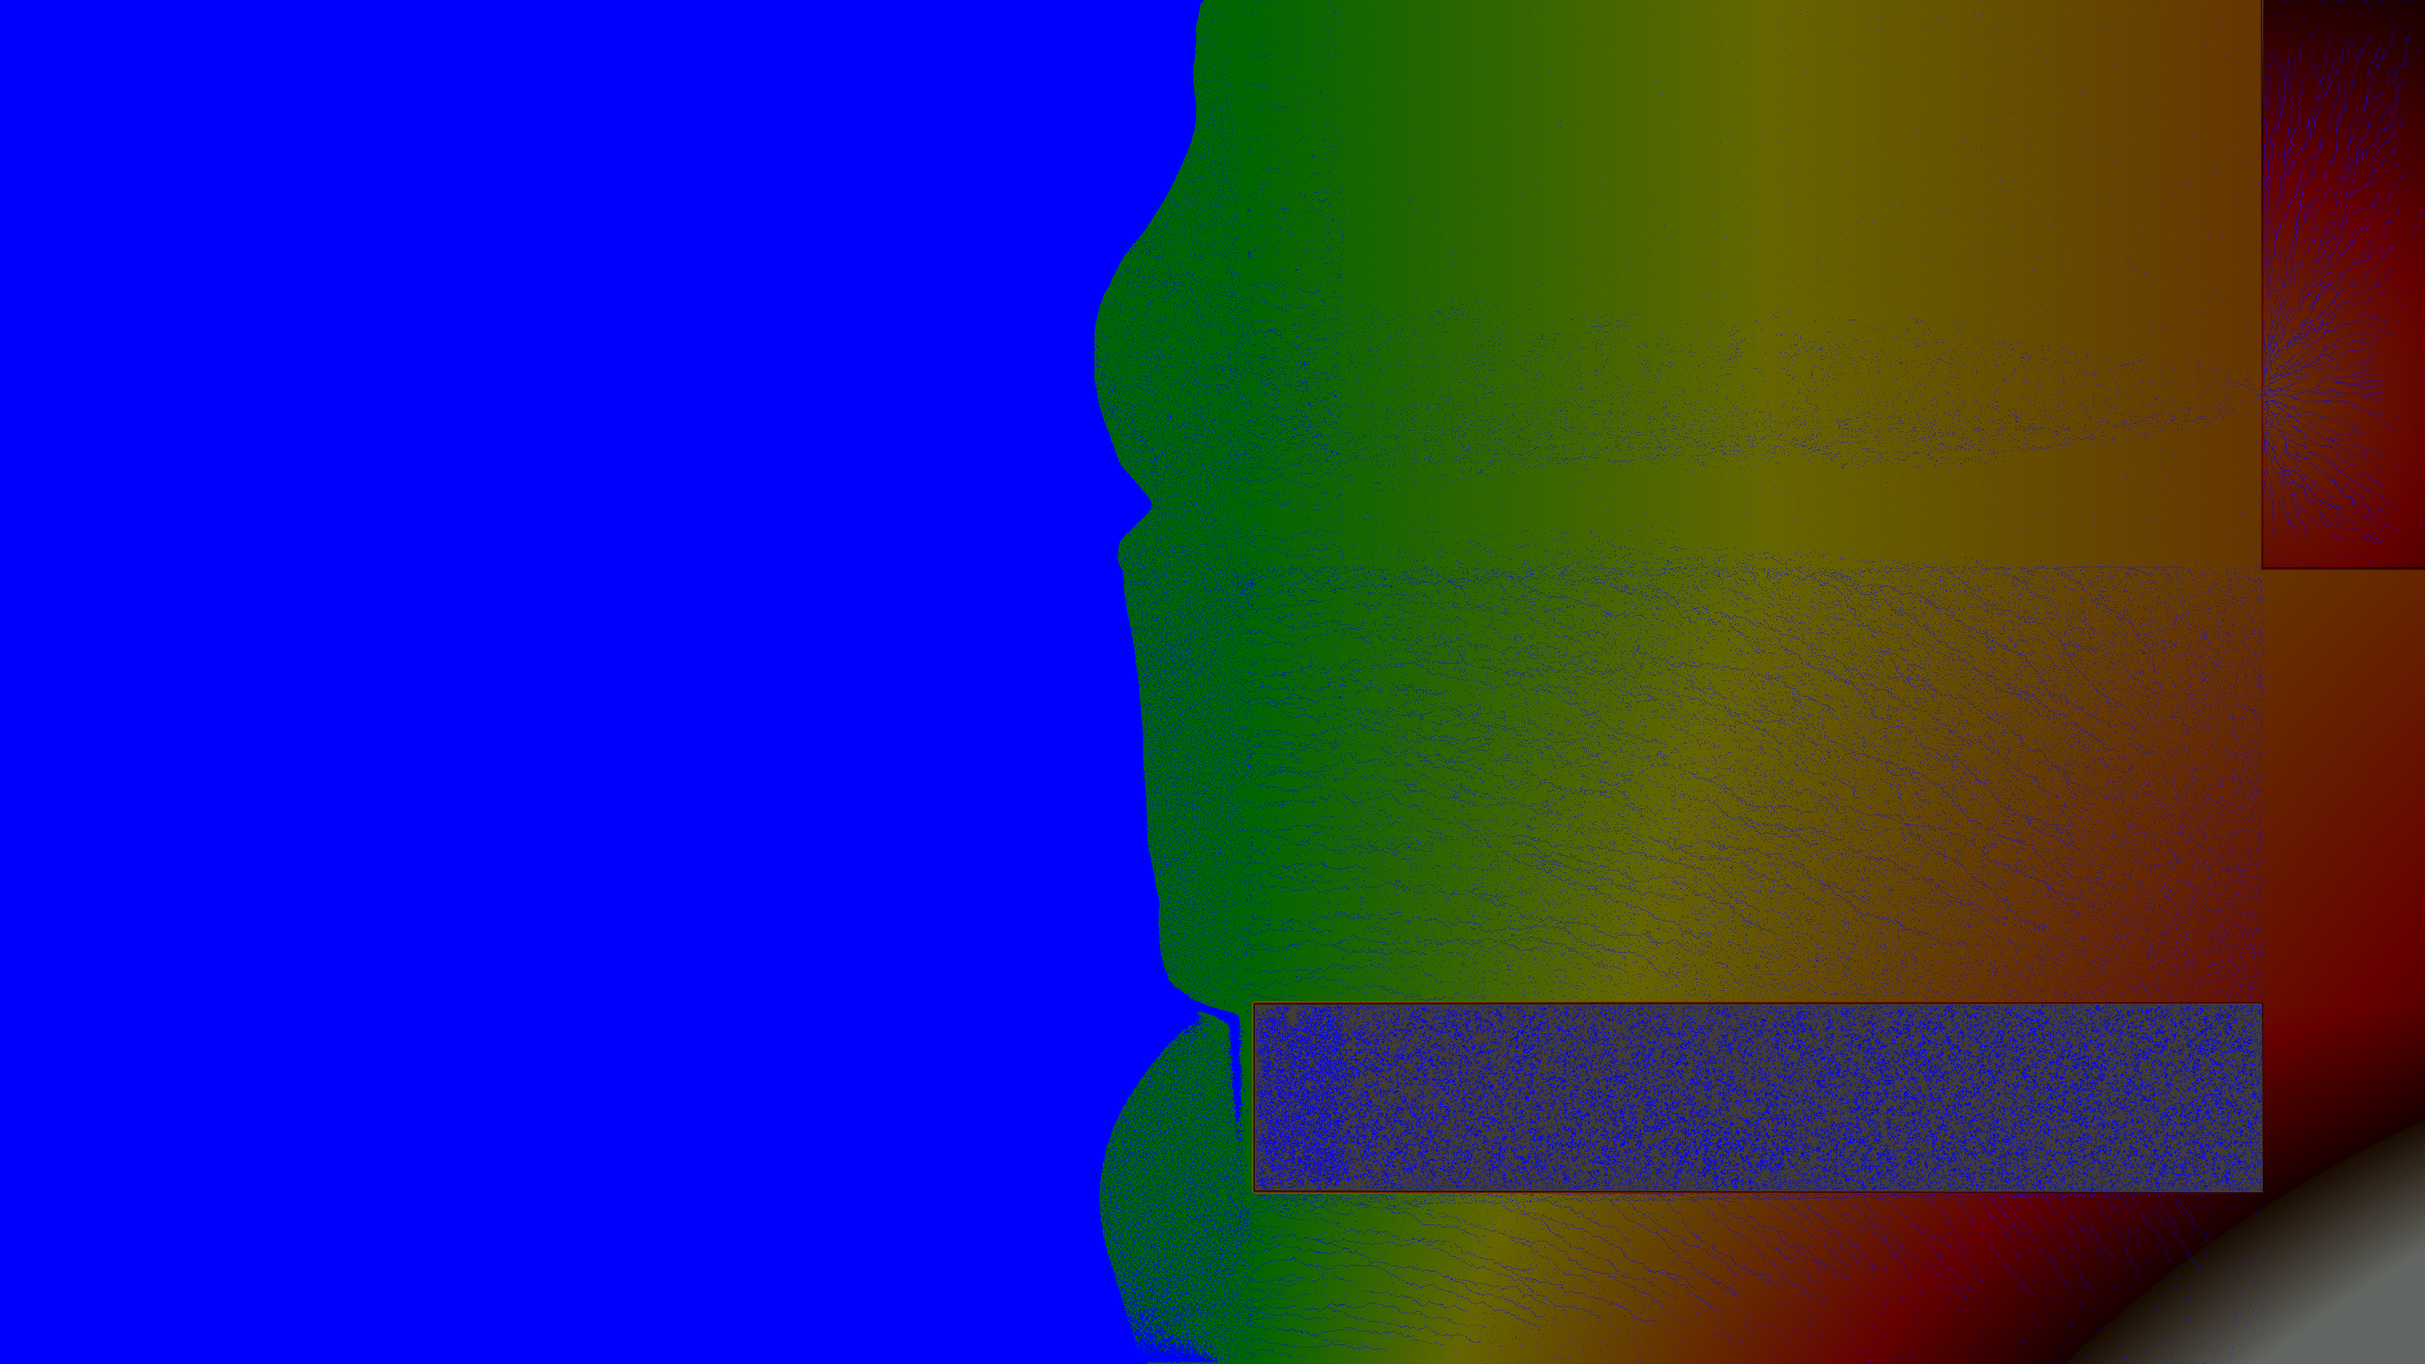
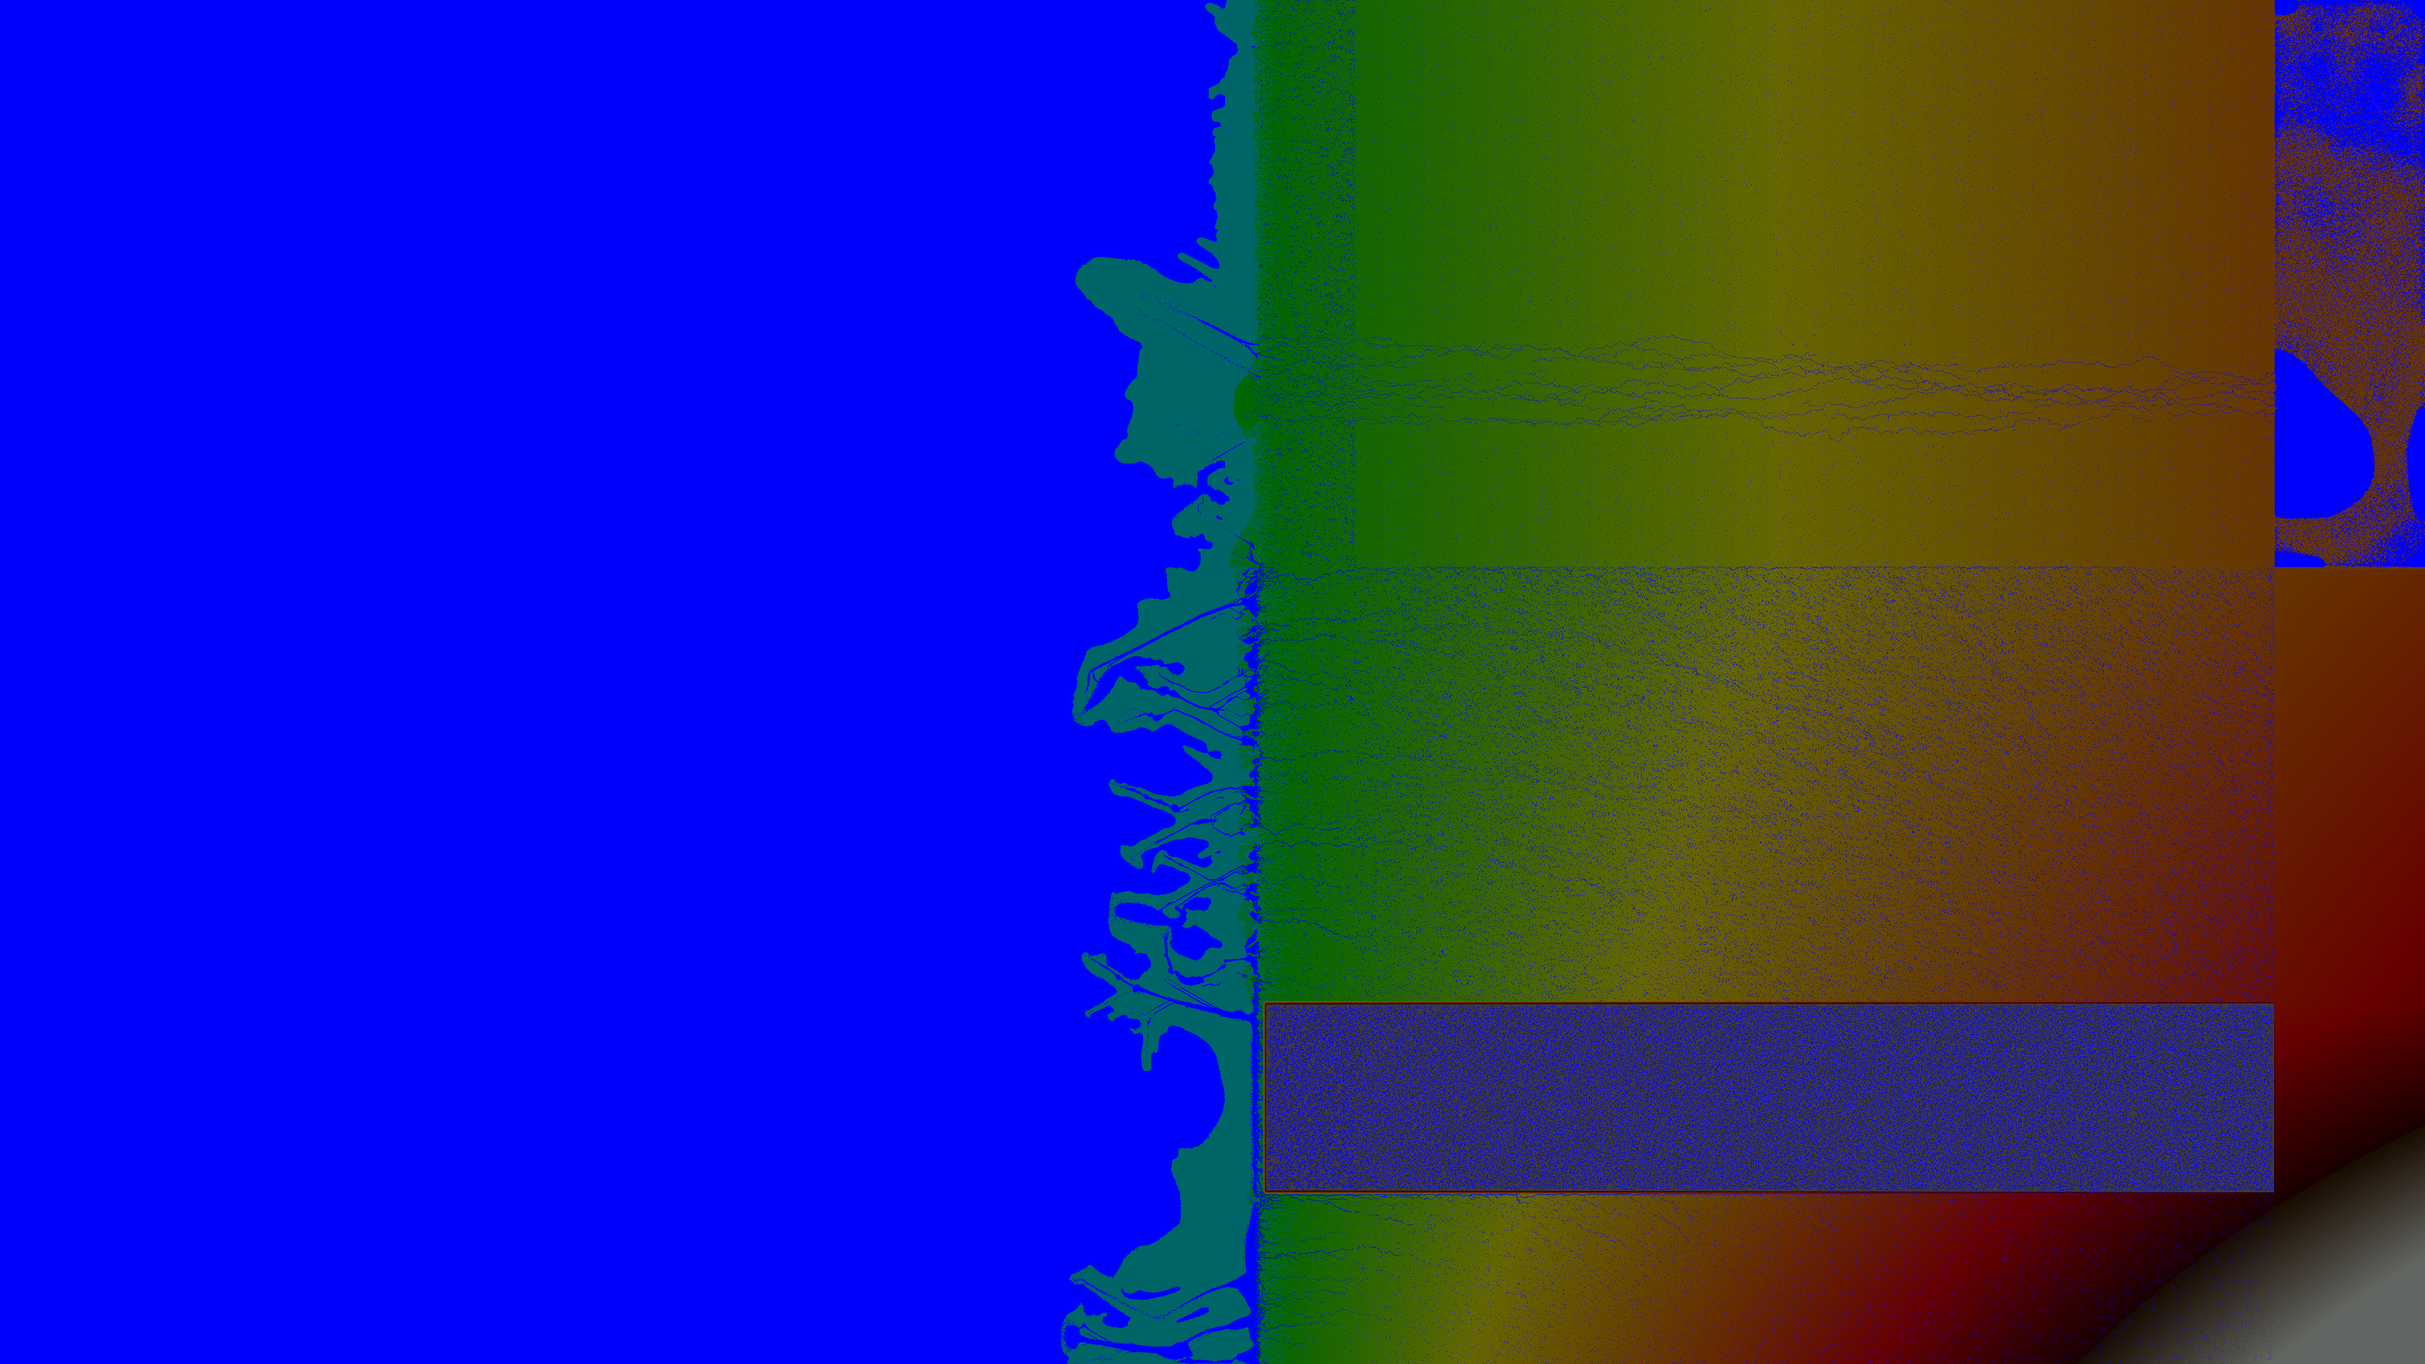
Miscellaneous experimentation. Still working on finding right constants.

diff --git a/src/main.rs b/src/main.rs
@@ -147,9 +147,8 @@ fn hex_distance_pythagorean(x1: i32, y1: i32, x2: i32, y2: i32) -> i32 {
 }
 
 fn elevation_to_color(elevation: f32) -> Rgb<u8> {
-    let adjusted_sea_level = SEA_LEVEL - WATER_THRESHOLD;
-    if elevation < adjusted_sea_level {
-        let normalized_elevation = ((elevation + ABYSSAL_PLAINS_DEPTH) / (adjusted_sea_level + ABYSSAL_PLAINS_DEPTH)).min(1.0);
+    if elevation < SEA_LEVEL {
+        let normalized_elevation = ((elevation + ABYSSAL_PLAINS_DEPTH) / (ABYSSAL_PLAINS_DEPTH)).min(1.0);
         if normalized_elevation < 0.0 {
             // Black, to mark where errosion has lowered elevation below the lowest possible initial elevation.
             Rgb([0, 0, 0])
@@ -162,9 +161,9 @@ fn elevation_to_color(elevation: f32) -> Rgb<u8> {
         }
     } else {
         // Land: green -> yellow -> orange -> red -> brown -> white
-        let land_height = elevation - adjusted_sea_level;
+        let land_height = elevation;
         // TODO: I expect the 256.0 / 255.0 is compensating for a math error somewhere else.
-        let max_land_height = (MAX_ELEVATION - adjusted_sea_level) * 256.0 / 255.0;
+        let max_land_height = MAX_ELEVATION * 256.0 / 255.0;
         let normalized_height = (land_height / max_land_height).min(1.0);
         
         if normalized_height < 0.2 {
@@ -308,9 +307,8 @@ fn simulate_rainfall(
         SEA_LEVEL, NORTH_DESERT_HEIGHT, CENTRAL_HIGHLAND_HEIGHT, SOUTH_MOUNTAINS_HEIGHT, CONTINENTAL_SLOPE_INCREMENT
     );
     println!(
-        "  RAINFALL_FACTOR {}  AVERAGE_RAIN {}  EVAPORATION_FACTOR {}",
+        "  RAINFALL_FACTOR {}  EVAPORATION_FACTOR {}",
         RAINFALL_FACTOR,
-        AVERAGE_RAIN,
         EVAPORATION_FACTOR
     );
     println!(
@@ -321,12 +319,11 @@ fn simulate_rainfall(
 
     for _step in 0..steps {
         // Mass balance stats per step
-        let rainfall_added = (width * height) as f32 * BASE_RAINFALL;
         let mut step_outflow = 0.0f32;
         let mut step_sediment_in = 0.0f32;
         let mut step_sediment_out = 0.0f32;
 
-        if _step % (WIDTH_HEXAGONS as u32 * LOG_ROUNDS) == 0 {
+        if _step % ((WIDTH_HEXAGONS / 4) as u32 * LOG_ROUNDS) == 0 {
             // Download hex data after all GPU passes for CPU-side logic
             let gpu_hex_data = gpu_sim.download_hex_data();
             for (idx, h) in gpu_hex_data.iter().enumerate() {
@@ -337,6 +334,11 @@ fn simulate_rainfall(
                 cell.water_depth = h.water_depth;
                 cell.suspended_load = h.suspended_load;
             }
+
+            let rainfall_added: f32 = hex_map
+                .par_iter()
+                .map(|row| row.iter().filter(|h| h.elevation > SEA_LEVEL).fold(0.0, |acc, h| acc + h.rainfall))
+                .sum();
 
             let cells_above_sea_level: usize = hex_map
                 .par_iter()
@@ -369,8 +371,9 @@ fn simulate_rainfall(
                     },
                 );
 
+            // Experimenting with h.elevation > SEA_LEVEL or h.water_depth <= WATER_THRESHOLD.
             let westernmost_land_hex = hex_map.par_iter().map(|row| {
-                row.iter().filter(|h| h.elevation > SEA_LEVEL).min_by_key(|h| h.coordinate.0)
+                row.iter().filter(|h| h.water_depth <= WATER_THRESHOLD).min_by_key(|h| h.coordinate.0)
             }).flatten().min_by_key(|h| h.coordinate.0);
 
             let mean_depth = water_on_land / cells_above_sea_level as f32;
@@ -474,16 +477,17 @@ fn simulate_rainfall(
         .map(|h| h.water_depth)
         .sum();
 
+    // Experimenting with h.elevation > SEA_LEVEL or h.water_depth <= WATER_THRESHOLD.
     let westernmost_land_hex = hex_map.par_iter().map(|row| {
-        row.iter().filter(|h| h.elevation > SEA_LEVEL).min_by_key(|h| h.coordinate.0)
+        row.iter().filter(|h| h.water_depth <= WATER_THRESHOLD).min_by_key(|h| h.coordinate.0)
     }).flatten().min_by_key(|h| h.coordinate.0);
 
     let westernmost_land_hex_north = hex_map.par_iter().take(NORTH_DESERT_HEIGHT).map(|row| {
-        row.iter().filter(|h| h.elevation > SEA_LEVEL).min_by_key(|h| h.coordinate.0)
+        row.iter().filter(|h| h.water_depth <= WATER_THRESHOLD).min_by_key(|h| h.coordinate.0)
     }).flatten().min_by_key(|h| h.coordinate.0);
 
     let westernmost_land_hex_central = hex_map.par_iter().skip(NORTH_DESERT_HEIGHT).take(CENTRAL_HIGHLAND_HEIGHT).map(|row| {
-        row.iter().filter(|h| h.elevation > SEA_LEVEL).min_by_key(|h| h.coordinate.0)
+        row.iter().filter(|h| h.water_depth <= WATER_THRESHOLD).min_by_key(|h| h.coordinate.0)
     }).flatten().min_by_key(|h| h.coordinate.0);
 
     println!(
@@ -651,16 +655,11 @@ fn main() {
                 elevation += get_erruption_elevation(HEX_SIZE * 5.0);   
             } else if x > TOTAL_SEA_WIDTH + NORTH_DESERT_WIDTH - NE_BASIN_FRINGE && y <= NE_BASIN_HEIGHT + NE_BASIN_FRINGE {
                 // The northeast basin.
-                let distance_from_source = hex_distance_pythagorean(RIVER_SOURCE_X as i32, RIVER_Y as i32, x as i32, y as i32);
-                let max_possible_distance_from_source = hex_distance_pythagorean(RIVER_SOURCE_X as i32, RIVER_Y as i32, (WIDTH_HEXAGONS - 1) as i32, 0);
-                let factor = distance_from_source as f32 / max_possible_distance_from_source as f32;
-                elevation = (NE_BASIN_MAX_ELEVATION - RANDOM_ELEVATION_FACTOR) * factor + elevation * (1.0 - factor);
-
-                // elevation = NORTH_DESERT_MAX_ELEVATION;
-
                 // TODO: Refactor this so I'm not doing the goofy thing in the rainfall step.
-                if distance_from_river_y > 2 {
-                    elevation += HEX_SIZE;
+                elevation = NORTH_DESERT_MAX_ELEVATION + RANDOM_ELEVATION_FACTOR;
+                if distance_from_river_y > 0 {
+                    let factor = (distance_from_river_y as f32 / (NORTH_DESERT_HEIGHT as f32 - RIVER_Y as f32)).min(1.0);
+                    elevation += RANDOM_ELEVATION_FACTOR * factor;
                 }
             } else if x > SW_RANGE_X_START && x < SW_RANGE_X_START + SW_RANGE_WIDTH && y >= SW_RANGE_Y_START && y < SW_RANGE_Y_START + SW_RANGE_HEIGHT {
                 // A range on the northern edge of the southern mountains
@@ -681,10 +680,12 @@ fn main() {
             }
             // TODO: seaside cliff just north of 34 degrees latitude. Make it 512 feet at the highest point, like the Athenian acropolis.
 
-            elevation += rng.gen_range(0.0..RANDOM_ELEVATION_FACTOR);
+            if distance_from_river_y > 0 || x <= TOTAL_SEA_WIDTH + NORTH_DESERT_WIDTH - NE_BASIN_FRINGE - (RANDOM_ELEVATION_FACTOR / NORTH_DESERT_INCREMENT) as usize {
+                elevation += rng.gen_range(0.0..RANDOM_ELEVATION_FACTOR);
+            }
 
             let mut rain_class = 0;
-            if distance_from_coast < COAST_WIDTH {
+            if x > TOTAL_SEA_WIDTH && distance_from_coast < COAST_WIDTH {
                 rain_class += 1;
             }
             if y > NORTH_DESERT_HEIGHT {
@@ -696,9 +697,7 @@ fn main() {
             if x > TOTAL_SEA_WIDTH + NORTH_DESERT_WIDTH {
                 if y <= NE_BASIN_HEIGHT {
                     rain_class = 4;
-                    if distance_from_river_y > 2 {
-                        elevation -= HEX_SIZE;
-                    }
+                    elevation = NORTH_DESERT_MAX_ELEVATION + RANDOM_ELEVATION_FACTOR;
                 } else {
                     rain_class = -1;
                 }
@@ -730,7 +729,7 @@ fn main() {
 
     let_slopes_settle(&mut hex_map);
     fill_sea(&mut hex_map);
-    prefill_basins(&mut hex_map);
+    // prefill_basins(&mut hex_map);
 
     let mut frame_buffer = vec![0u32; (WIDTH_PIXELS as usize) * (HEIGHT_PIXELS as usize)];
 

diff --git a/src/constants.rs b/src/constants.rs
@@ -21,7 +21,9 @@ pub const HIGH_RAIN: f32 = 34.0;
 // Used for NE basin.
 pub const VERY_HIGH_RAIN: f32 = 49.0;
 // Above numbers are in inches per year, this can be adjusted to e.g. feet per year.
-pub const RAINFALL_FACTOR: f32 = 1.0 / 12.0 / 365.0 / 24.0;
+pub const RAINFALL_FACTOR: f32 = 1.0 / 12.0 / 365.0 / 24.0 / 6.0;
+// The 16.0 multiple comes from very dubiously realistic back-of-the-envelope math.
+pub const EVAPORATION_FACTOR: f32 = RAINFALL_FACTOR * 16.0;
 
 pub const ONE_DEGREE_LATITUDE_MILES: f32 = 69.05817;
 pub const RIVER_Y: usize = (4.5 * ONE_DEGREE_LATITUDE_MILES * 2.0) as usize;
@@ -44,12 +46,13 @@ pub const NE_BASIN_FRINGE: usize = 4;
 pub const NORTH_DESERT_RAIN: f32 = (COAST_WIDTH as f32 * LOW_RAIN + (NORTH_DESERT_WIDTH - COAST_WIDTH) as f32 * VERY_LOW_RAIN) * NORTH_DESERT_HEIGHT as f32;
 // Rain on the part of the central highland whose east-west extent corresponds to the north desert.
 pub const MAIN_CENTRAL_HIGHLAND_RAIN: f32 = (COAST_WIDTH as f32 * MEDIUM_RAIN + (NORTH_DESERT_WIDTH - COAST_WIDTH) as f32 * LOW_RAIN) * CENTRAL_HIGHLAND_HEIGHT as f32;
-// Equalize total rain in central highland and area north of it (desert + basin).
-// Total central highland rain = MAIN_CENTRAL_HIGHLAND_RAIN + NE_BASIN_WIDTH * LOW_RAIN * CENTRAL_DESERT_HEIGHT
-// Total rain north of central highland = NORTH_DESERT_RAIN + NE_BASIN_WIDTH * VERY_HIGH_RAIN * NE_BASIN_HEIGHT
-pub const NE_BASIN_WIDTH: usize = ((MAIN_CENTRAL_HIGHLAND_RAIN - NORTH_DESERT_RAIN) / (VERY_HIGH_RAIN * NE_BASIN_HEIGHT as f32 - LOW_RAIN * CENTRAL_HIGHLAND_HEIGHT as f32)) as usize;
+// Measured in previous simulation run.
+pub const NE_BASIN_WATER_STORED: f32 = 71_552.47;
+// An attempt to balance water in north and central regions mathematically.
+pub const NE_BASIN_WIDTH: usize = ((MAIN_CENTRAL_HIGHLAND_RAIN + NE_BASIN_WATER_STORED * EVAPORATION_FACTOR / RAINFALL_FACTOR - NORTH_DESERT_RAIN) / (VERY_HIGH_RAIN * NE_BASIN_HEIGHT as f32)) as usize;
 pub const TOTAL_LAND_WIDTH: usize = NE_BASIN_WIDTH + NORTH_DESERT_WIDTH;
-pub const CONTINENTAL_SHELF_WIDTH: usize = (310.0 * 2.0 / HEX_FACTOR) as usize;
+// In real life, continental shelves can extend up to 310 miles from shore.
+pub const CONTINENTAL_SHELF_WIDTH: usize = (150.0 * 2.0 / HEX_FACTOR) as usize;
 pub const CONTINENTAL_SHELF_MIN_WIDTH: usize = (50.0 * 2.0 / HEX_FACTOR) as usize;
 pub const CONTINENTAL_SHELF_DEPTH: f32 = 460.0;
 pub const CONTINENTAL_SHELF_INCREMENT: f32 = CONTINENTAL_SHELF_DEPTH / CONTINENTAL_SHELF_WIDTH as f32;
@@ -69,7 +72,8 @@ pub const BUMPER_RANGE: usize = 120;
 
 pub const NORTH_DESERT_MAX_ELEVATION: f32 = 7_175.0;
 pub const NORTH_DESERT_INCREMENT: f32 = (NORTH_DESERT_MAX_ELEVATION - RANDOM_ELEVATION_FACTOR) / (NORTH_DESERT_WIDTH - NE_BASIN_FRINGE) as f32;
-pub const NE_BASIN_MAX_ELEVATION: f32 = 14_872.0;
+pub const NE_BASIN_ELEVATION: f32 = 636.0;
+
 pub const CENTRAL_HIGHLAND_MAX_ELEVATION: f32 = 10_131.0;
 pub const CENTRAL_HIGHLAND_INCREMENT: f32 = (CENTRAL_HIGHLAND_MAX_ELEVATION - RANDOM_ELEVATION_FACTOR) / MAIN_RIVER_WIDTH as f32;
 pub const SE_MOUNTAINS_MAX_ELEVATION: f32 = 18_510.0;
@@ -82,9 +86,12 @@ pub const SW_RANGE_X_START: usize = TOTAL_SEA_WIDTH as usize;
 pub const SW_RANGE_Y_START: usize = NORTH_DESERT_HEIGHT + CENTRAL_HIGHLAND_HEIGHT + SW_RANGE_FRINGE * 4;
 pub const SW_RANGE_WIDTH: usize = NORTH_DESERT_WIDTH;
 
-pub const KC: f32 = 0.25; // capacity coefficient
-pub const KE: f32 = 0.1; // erosion rate fraction
-pub const KD: f32 = 0.1; // deposition rate fraction
+
+pub const KC: f32 = 1.0; // capacity coefficient
+pub const KE: f32 = 1.0 / 7.0; // erosion rate fraction
+// Experimentally we have determined that KD = 1.0 / 200_000.0 is way too low.
+// KD = 0.000_087_613_555 would allow 99% of excess sediment to get deposited in one "year".
+pub const KD: f32 = 1.0 / 7.0 * 0.002; // deposition rate fraction
 
 // TODO: Remove constants associated with the hard-coded river source after fully replacing it with the NE basin.
 // 0.01 hours of average flow through the Aswan Dam.
@@ -93,9 +100,8 @@ pub const RIVER_WATER_PER_STEP: f32 = 0.371; // Feet
 pub const TARGET_DROP_PER_HEX: f32 = 0.4; // Feet
 pub const TARGET_RIVER_DEPTH: f32 = 32.0; // Feet
 pub const FLOW_FACTOR: f32 = 0.90;
-// One inch of rain per year.
-pub const BASE_RAINFALL: f32 = 1.0 / 12.0 / 365.0 / 24.0 / 100.0; // Feet
-pub const DEFAULT_ROUNDS: u32 = 100;
+// Might take 7k-10k rounds to carve out the river valley I want.
+pub const DEFAULT_ROUNDS: u32 = 1_000;
 pub const WATER_THRESHOLD: f32 = 1.0; // Feet
 
 
@@ -103,7 +109,7 @@ pub const MAX_SLOPE: f32 = 1.00;
 pub const MAX_FLOW: f32 = (HEX_SIZE as f32) * MAX_SLOPE;
 // Current highest of all max elevation constants.
 pub const MAX_ELEVATION: f32 = SEA_LEVEL + SE_MOUNTAINS_MAX_ELEVATION;
-pub const LOG_ROUNDS: u32 = 10;
+pub const LOG_ROUNDS: u32 = 1;
 
 pub const BIG_VOLCANO_INITIAL_ELEVATION: f32 = HEX_SIZE * (5.0 + 6.0 * 4.0 + 12.0 * 3.0 + 18.0 * 2.0 + 24.0 * 1.0);
 pub const BIG_VOLCANO_X: usize = TOTAL_SEA_WIDTH + DELTA_SEED_WIDTH + (1_000.0 / HEX_FACTOR) as usize;
@@ -119,22 +125,3 @@ pub const RING_VALLEY_X: usize = TOTAL_SEA_WIDTH + COAST_WIDTH - RING_VALLEY_RAD
 pub const RING_VALLEY_Y: usize = (8.0 * ONE_DEGREE_LATITUDE_MILES * 2.0) as usize;
 // TODO: Try setting this to an absurd value to confirm it works.
 pub const RING_VALLEY_ELEVATION_BONUS: f32 = 240.0;
-
-// TODO: Evaporation. See if we can keep mean depth on land going over 4 inches.
-pub const TARGET_DELTA_WIDTH: usize = (100.0 * 2.0 / HEX_FACTOR) as usize;
-pub const TARGET_MEAN_DEPTH_LAND: f32 = 4.0 / 12.0;
-pub const TOTAL_NE_BASIN_RAIN: f32 = (NE_BASIN_HEIGHT * NE_BASIN_WIDTH) as f32 * VERY_HIGH_RAIN;
-
-pub const TARGET_COAST_WIDTH: usize = COAST_WIDTH + TARGET_DELTA_WIDTH;
-pub const TOTAL_NORTH_COAST_RAIN: f32 = (TARGET_COAST_WIDTH * NORTH_DESERT_HEIGHT) as f32 * LOW_RAIN;
-pub const TOTAL_CENTRAL_COAST_RAIN: f32 = (TARGET_COAST_WIDTH * CENTRAL_HIGHLAND_HEIGHT) as f32 * MEDIUM_RAIN;
-pub const TOTAL_SOUTH_COAST_RAIN: f32 = (TARGET_COAST_WIDTH * SOUTH_MOUNTAINS_HEIGHT) as f32 * HIGH_RAIN;
-
-pub const TOTAL_NORTH_RAIN: f32 = TOTAL_NE_BASIN_RAIN + TOTAL_NORTH_COAST_RAIN + (MAIN_RIVER_WIDTH * NORTH_DESERT_HEIGHT) as f32 * VERY_LOW_RAIN;
-pub const TOTAL_CENTRAL_RAIN: f32 = TOTAL_CENTRAL_COAST_RAIN + (MAIN_RIVER_WIDTH * CENTRAL_HIGHLAND_HEIGHT) as f32 * LOW_RAIN;
-pub const TOTAL_SOUTH_RAIN: f32 = TOTAL_SOUTH_COAST_RAIN + (MAIN_RIVER_WIDTH * SOUTH_MOUNTAINS_HEIGHT) as f32 * MEDIUM_RAIN;
-
-pub const TOTAL_RAIN: f32 = (TOTAL_NORTH_RAIN + TOTAL_CENTRAL_RAIN + TOTAL_SOUTH_RAIN) * RAINFALL_FACTOR;
-pub const AVERAGE_RAIN: f32 = TOTAL_RAIN / ((TOTAL_LAND_WIDTH + TARGET_DELTA_WIDTH) * HEIGHT_PIXELS) as f32;
-// The 0.63 is an empirically determined fudge factor.
-pub const EVAPORATION_FACTOR: f32 = AVERAGE_RAIN / TARGET_MEAN_DEPTH_LAND * 0.63;
